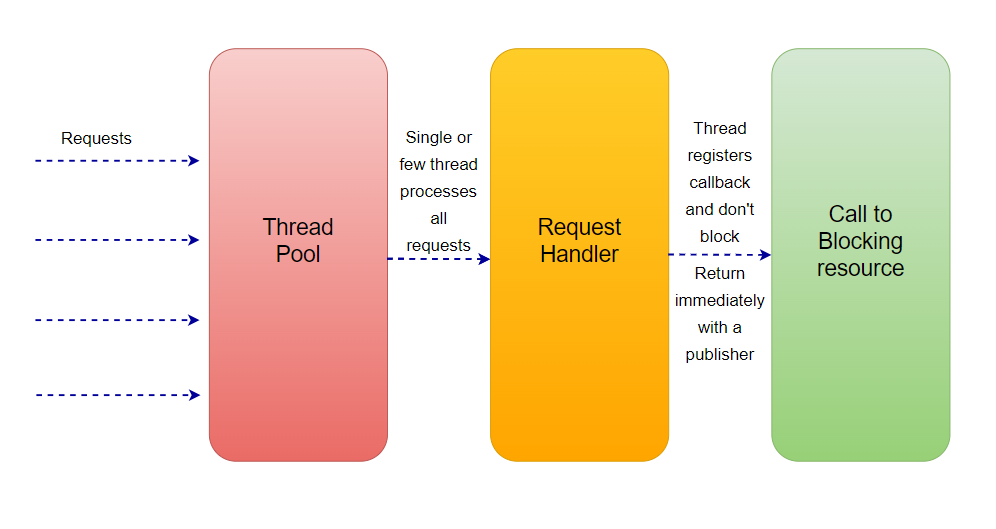
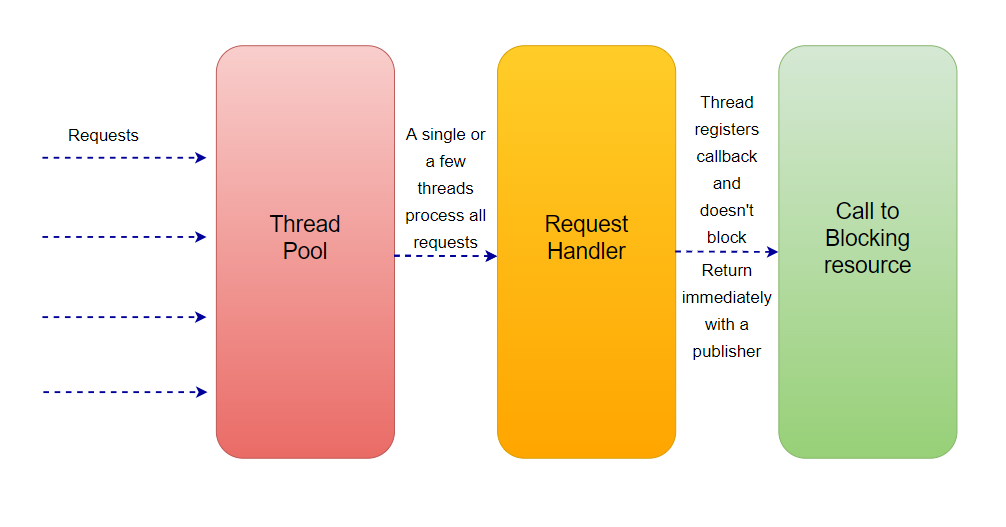
addressing review comments

diff --git a/content/blog/2022/2022-02-15-getting-started-with-spring-webflux.md b/content/blog/2022/2022-02-15-getting-started-with-spring-webflux.md
@@ -11,11 +11,13 @@ url: getting-started-with-spring-webflux
 
 
 
-Most of the applications built in traditional and conventional world, deal with *blocking* calls or in other words, known as *synchronous* calls. This means that if we want to access a particular resource then the application would block the other one until the first one is processed. So as we had embarked into the world of reality dealing with the *Big Data* , we have realized that we need to process this data with immense speed and agility. That’s when the software developers realized that they would need some kind of multi-threaded environment that handles asynchronous and non-blocking calls.
+Most of the applications built in traditional and conventional world, deal with *blocking* calls or in other words, known as *synchronous* calls. This means that if we want to access a particular resource in a system with most of the threads being busy, then the application would block the new one or wait until the previous threads complete processing its requests. So as we had embarked into the world of reality dealing with the *Big Data* , we have realized that we need to process this data with immense speed and agility. That’s when the software developers realized that they would need some kind of multi-threaded environment that handles asynchronous and non-blocking calls.
 
 ## What is a Stream?
 
-Before jumping on to the reactive part, we must understand what streams are. A *Stream* is basically a sequence of data that is transferred across the internet over one system to another. They are often treated as electrical signals in their raw form. They typically operate in a blocking, sequential and FIFO(first-in-first-out) pattern. This methodology of data streaming often prohibits a system to process the real-time data while streaming. Thus a bunch of prominent developers realized that they would need a holistic and coherent approach to build a Reactive Systems Architecture which would ease the process of consuming and compute the data while streaming. Hence, they signed a manifesto, popularly known as the [Reactive Manifesto](https://www.reactivemanifesto.org/).
+Before jumping on to the reactive part, we must understand what streams are. A *Stream* is basically a sequence of data that is transferred across the internet over one system to another. They are often treated as electrical signals in their raw form. They typically operate in a blocking, sequential and FIFO(first-in-first-out) pattern.
+
+This methodology of data streaming often prohibits a system to process the real-time data while streaming. Thus a bunch of prominent developers realized that they would need a holistic and coherent approach to build a Reactive Systems Architecture which would ease the process of consuming and compute the data while streaming. Hence, they signed a manifesto, popularly known as the [Reactive Manifesto](https://www.reactivemanifesto.org/).
 
 The authors of the manifesto resembled that a Reactive system must be an asynchronous software that deal with *Producers* which have single responsibility to send messages to *Consumers*. They are architectural pattern that keeps failure resolution in mind to make sure most of the system will still operate even if one of them fails. Hence, they introduced the following features to keep in mind:
 
@@ -23,8 +25,6 @@ The authors of the manifesto resembled that a Reactive system must be an asynchr
 * **Resilient**: Reactive systems should be designed to anticipate system failures. Thus they should be responsive through replication and isolation.
 * **Elastic**: Reactive systems must be adaptive to shard or replicate components based upon their requirement. They should use predictive scaling to anticipate sudden ups and downs in their infrastructure.
 * **Message-driven**: Since all the components in a reactive system are supposed to be loosely-coupled, they must communicate across their boundaries by asynchronously exchanging of messages.
-
-{{% image alt="Reactive Straits" src="https://www.reactivemanifesto.org/images/reactive-traits.svg" %}}
 
 {{% github "https://github.com/thombergs/code-examples/tree/master/spring-webflux" %}}
 
@@ -40,7 +40,9 @@ In a conventional MVC application, whenever a request reaches the server, a serv
 
 ### Non-Blocking Request
 
-In a non-blocking system, all the incoming requests are accompanied with an event handler and a callback information. The request thread delegates the incoming request to a thread pool which manages a pretty small number of threads. Then the thread pool delegates the request to its handler function and gets available to process next incoming requests from the request thread. When the handler function completes its process, one of the thread from the pool fetches the response and pass it to the callback function. Thus the threads in a non-blocking system never goes into the waiting state. This increases the productivity and the performance of the application.
+In a non-blocking system, all the incoming requests are accompanied with an event handler and a callback information. The request thread delegates the incoming request to a thread pool which manages a pretty small number of threads. Then the thread pool delegates the request to its handler function and gets available to process next incoming requests from the request thread.
+
+When the handler function completes its process, one of the thread from the pool fetches the response and pass it to the callback function. Thus the threads in a non-blocking system never goes into the waiting state. This increases the productivity and the performance of the application.
 
 {{% image alt="Non-blocking request" src="images/posts/spring-webflux/non-blocking_request.png" %}}
 
@@ -307,13 +309,13 @@ public class UserController {
 
 This almost looks same as the controller defined in Spring MVC. But the major difference between Spring MVC and Spring Webflux relies on how the request and response are handled using non-blocking Publishers, *Mono* and *Flux*. We don’t need to call subscribe methods in the Controller as the internal classes of Spring would call it for us at the right time.
 
-{{% warning title="Do Not Block" %}}
-*Note: We must make sure that we don’t use any blocking methods throughout the lifecycle of an API.*
+{{% warning title="Do Not Block !!" %}}
+Note: We must make sure that we don’t use any blocking methods throughout the lifecycle of an API.
 {{% /warning %}}
 
 ##### Functional Routing and Handling
 
-Initially the Spring Functional Web Framework was built and designed for Spring Webflux but later it was also introduced in Spring MVC. We use functions for routing and handling the requests. This constitutes an alternative programming model to the Spring annotation based framework.
+Initially the Spring Functional Web Framework was built and designed for Spring Webflux but later it was also introduced in Spring MVC. We use functions for routing and handling the requests. This introduces an alternative programming model to the one provided by the Spring annotation based framework.
 
 First of all, we will define a `Handler` function that can accept a `ServerRequest` as an incoming argument and return a Mono of `ServerResponse` as the response of that functional method. Let’s name the handler class as `UserHandler`:
 
@@ -431,7 +433,9 @@ This constitutes our basic non-blocking REST API using Spring Webflux. Now this 
 * Message notification without unnecessary reloading of server.
 * Subscribing to a feed of news, stocks or cryptocurrency
 
-The biggest limitation of SSE is that it’s unidirectional and hence information can’t be passed to a server from the client. Spring Wbflux allows us to define Server streaming events which can send events in a given interval. The web client initiates the REST API call and keeps it open until the even stream is closed. The server-side event would have the content type `text/event-stream`. Now we can define a Server Side Event streaming endpoint using WebFlux by simply returning a Flux and specifying the content type as text/event-stream. So let’s add this method to our existing `UserController`:
+The biggest limitation of SSE is that it’s unidirectional and hence information can’t be passed to a server from the client. Spring Webflux allows us to define server streaming events which can send events in a given interval. The web client initiates the REST API call and keeps it open until the event stream is closed.
+
+The server-side event would have the content type `text/event-stream`. Now we can define a Server Side Event streaming endpoint using WebFlux by simply returning a Flux and specifying the content type as text/event-stream. So let’s add this method to our existing `UserController`:
 
 ```java
     @GetMapping(value = "/stream", produces = MediaType.TEXT_EVENT_STREAM_VALUE)
@@ -541,7 +545,6 @@ If we receive the response in the first attempt, then it will simply return the 
 Traditionally, Spring MVC bundles *Tomcat* server for servlet stack applications whereas Spring WebFlux bundles *Reactor Netty* by default for reactive stack applications. *Reactor Netty* is an asynchronous event-driven network application framework built out of Netty server which provides non-blocking and backpressure-ready network engines for HTTP, TCP and UDP clients and servers. Spring WebFlux automatically configures Reactor Netty as the default server but if we want to override the default configuration, we can simply do that by defining them under server prefix.
 
 ```yaml
-
 server:
   port: 9000
   http2:
